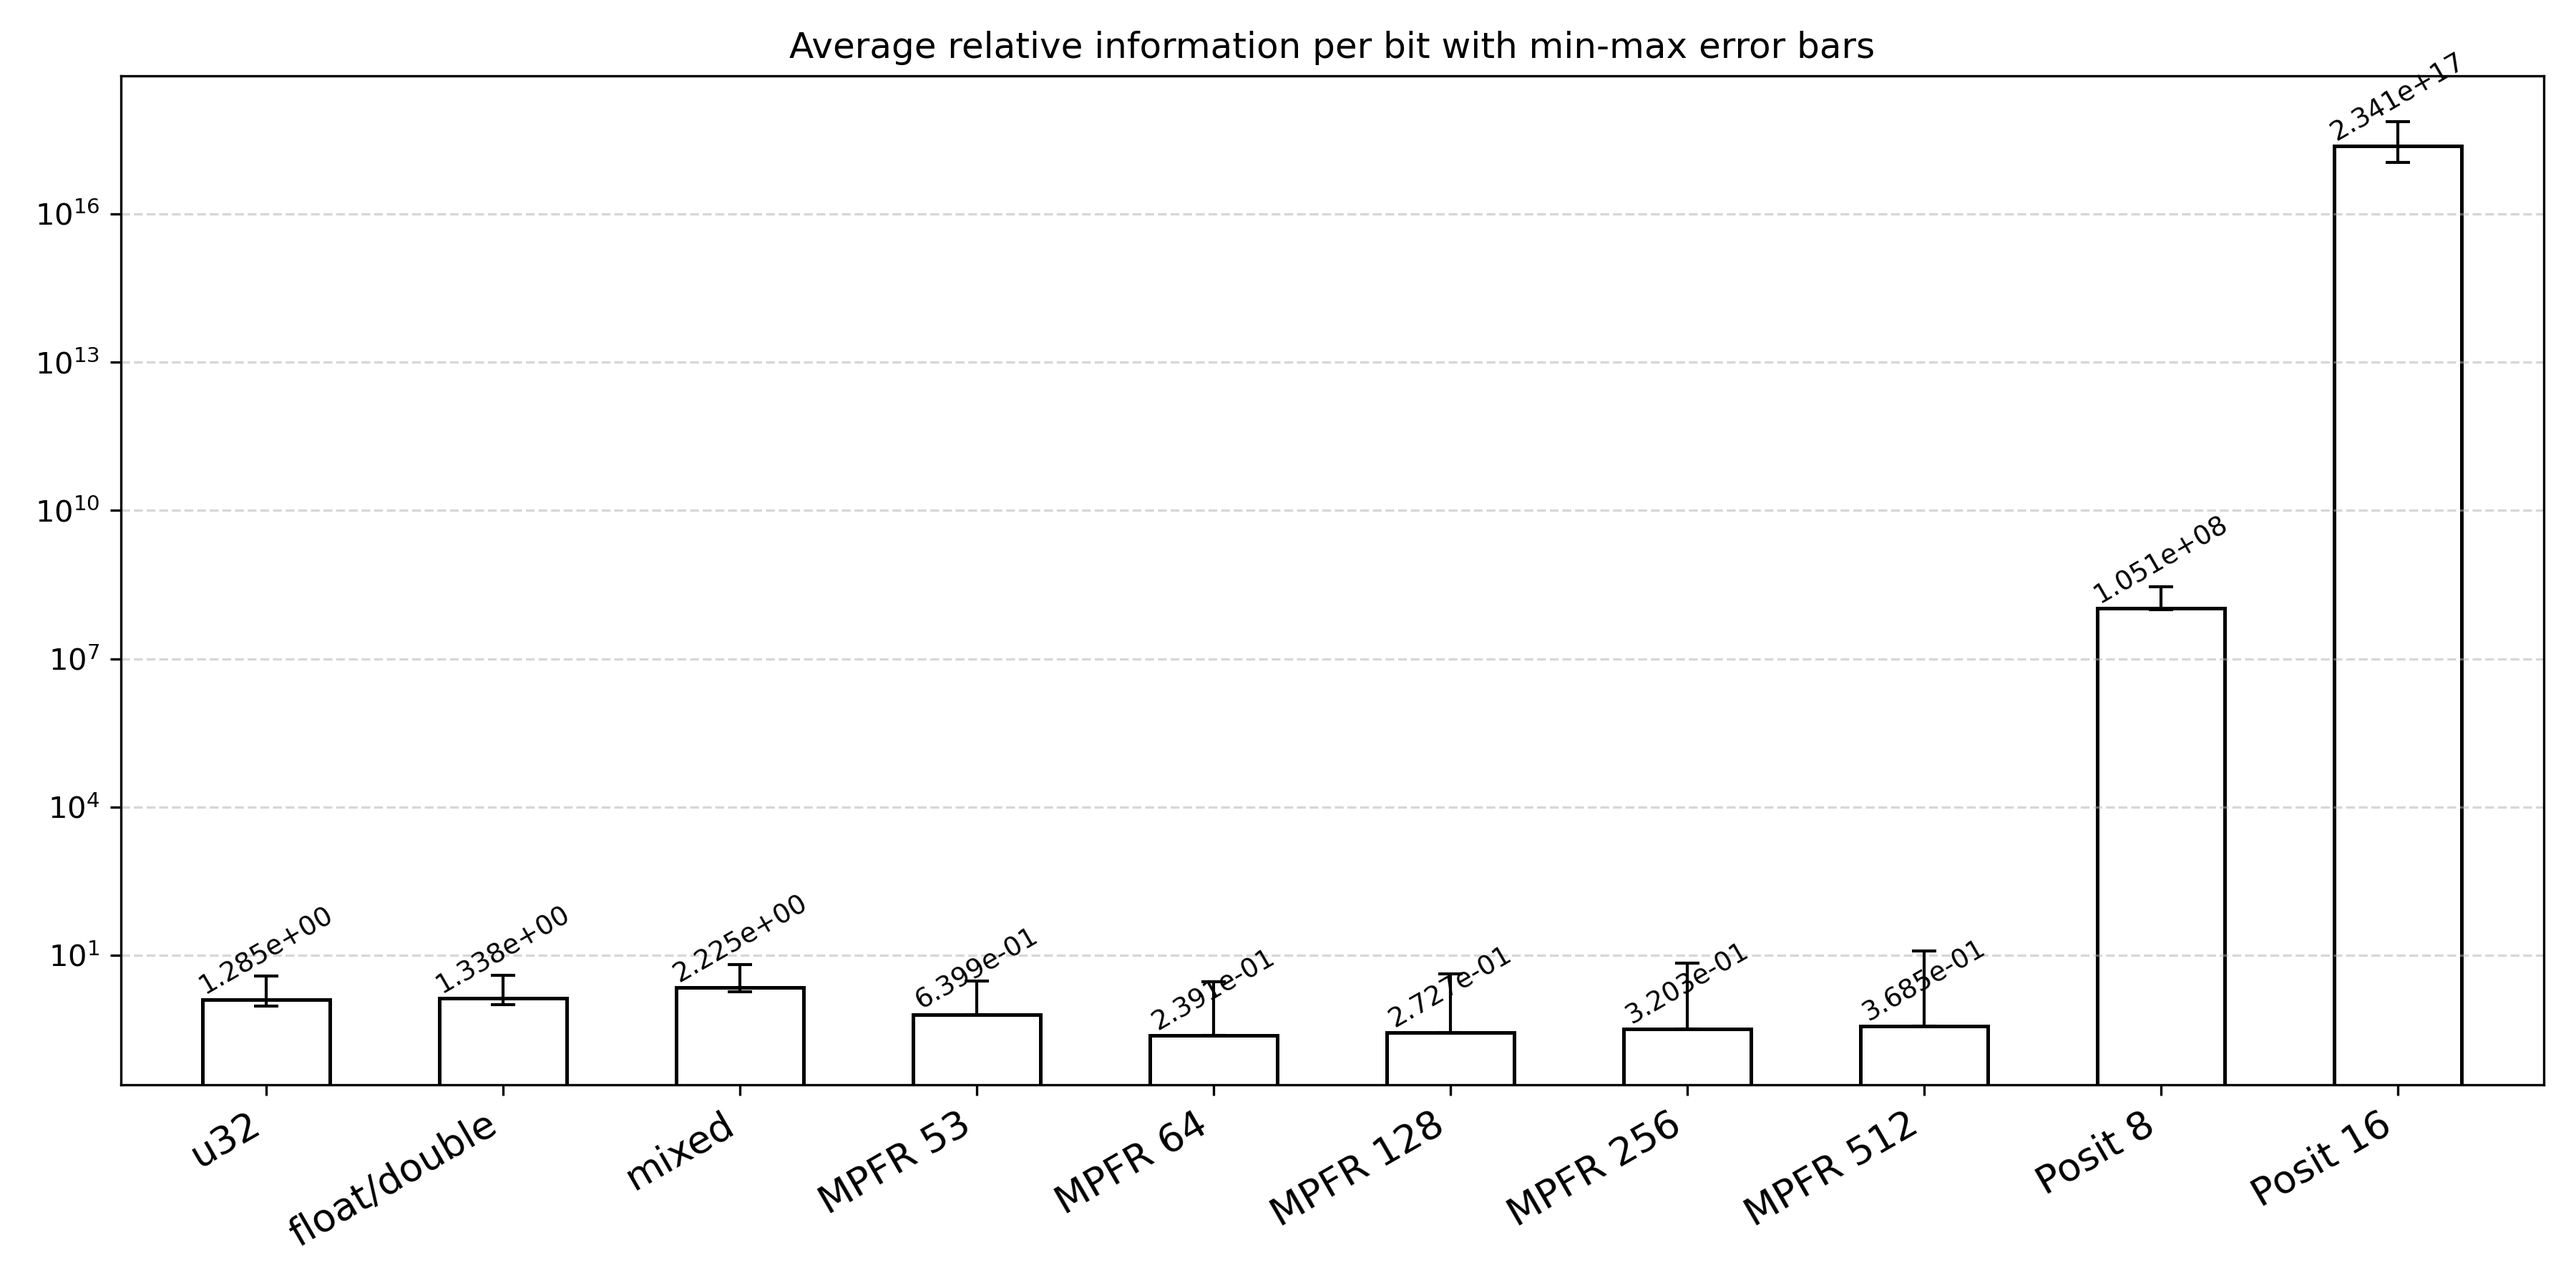
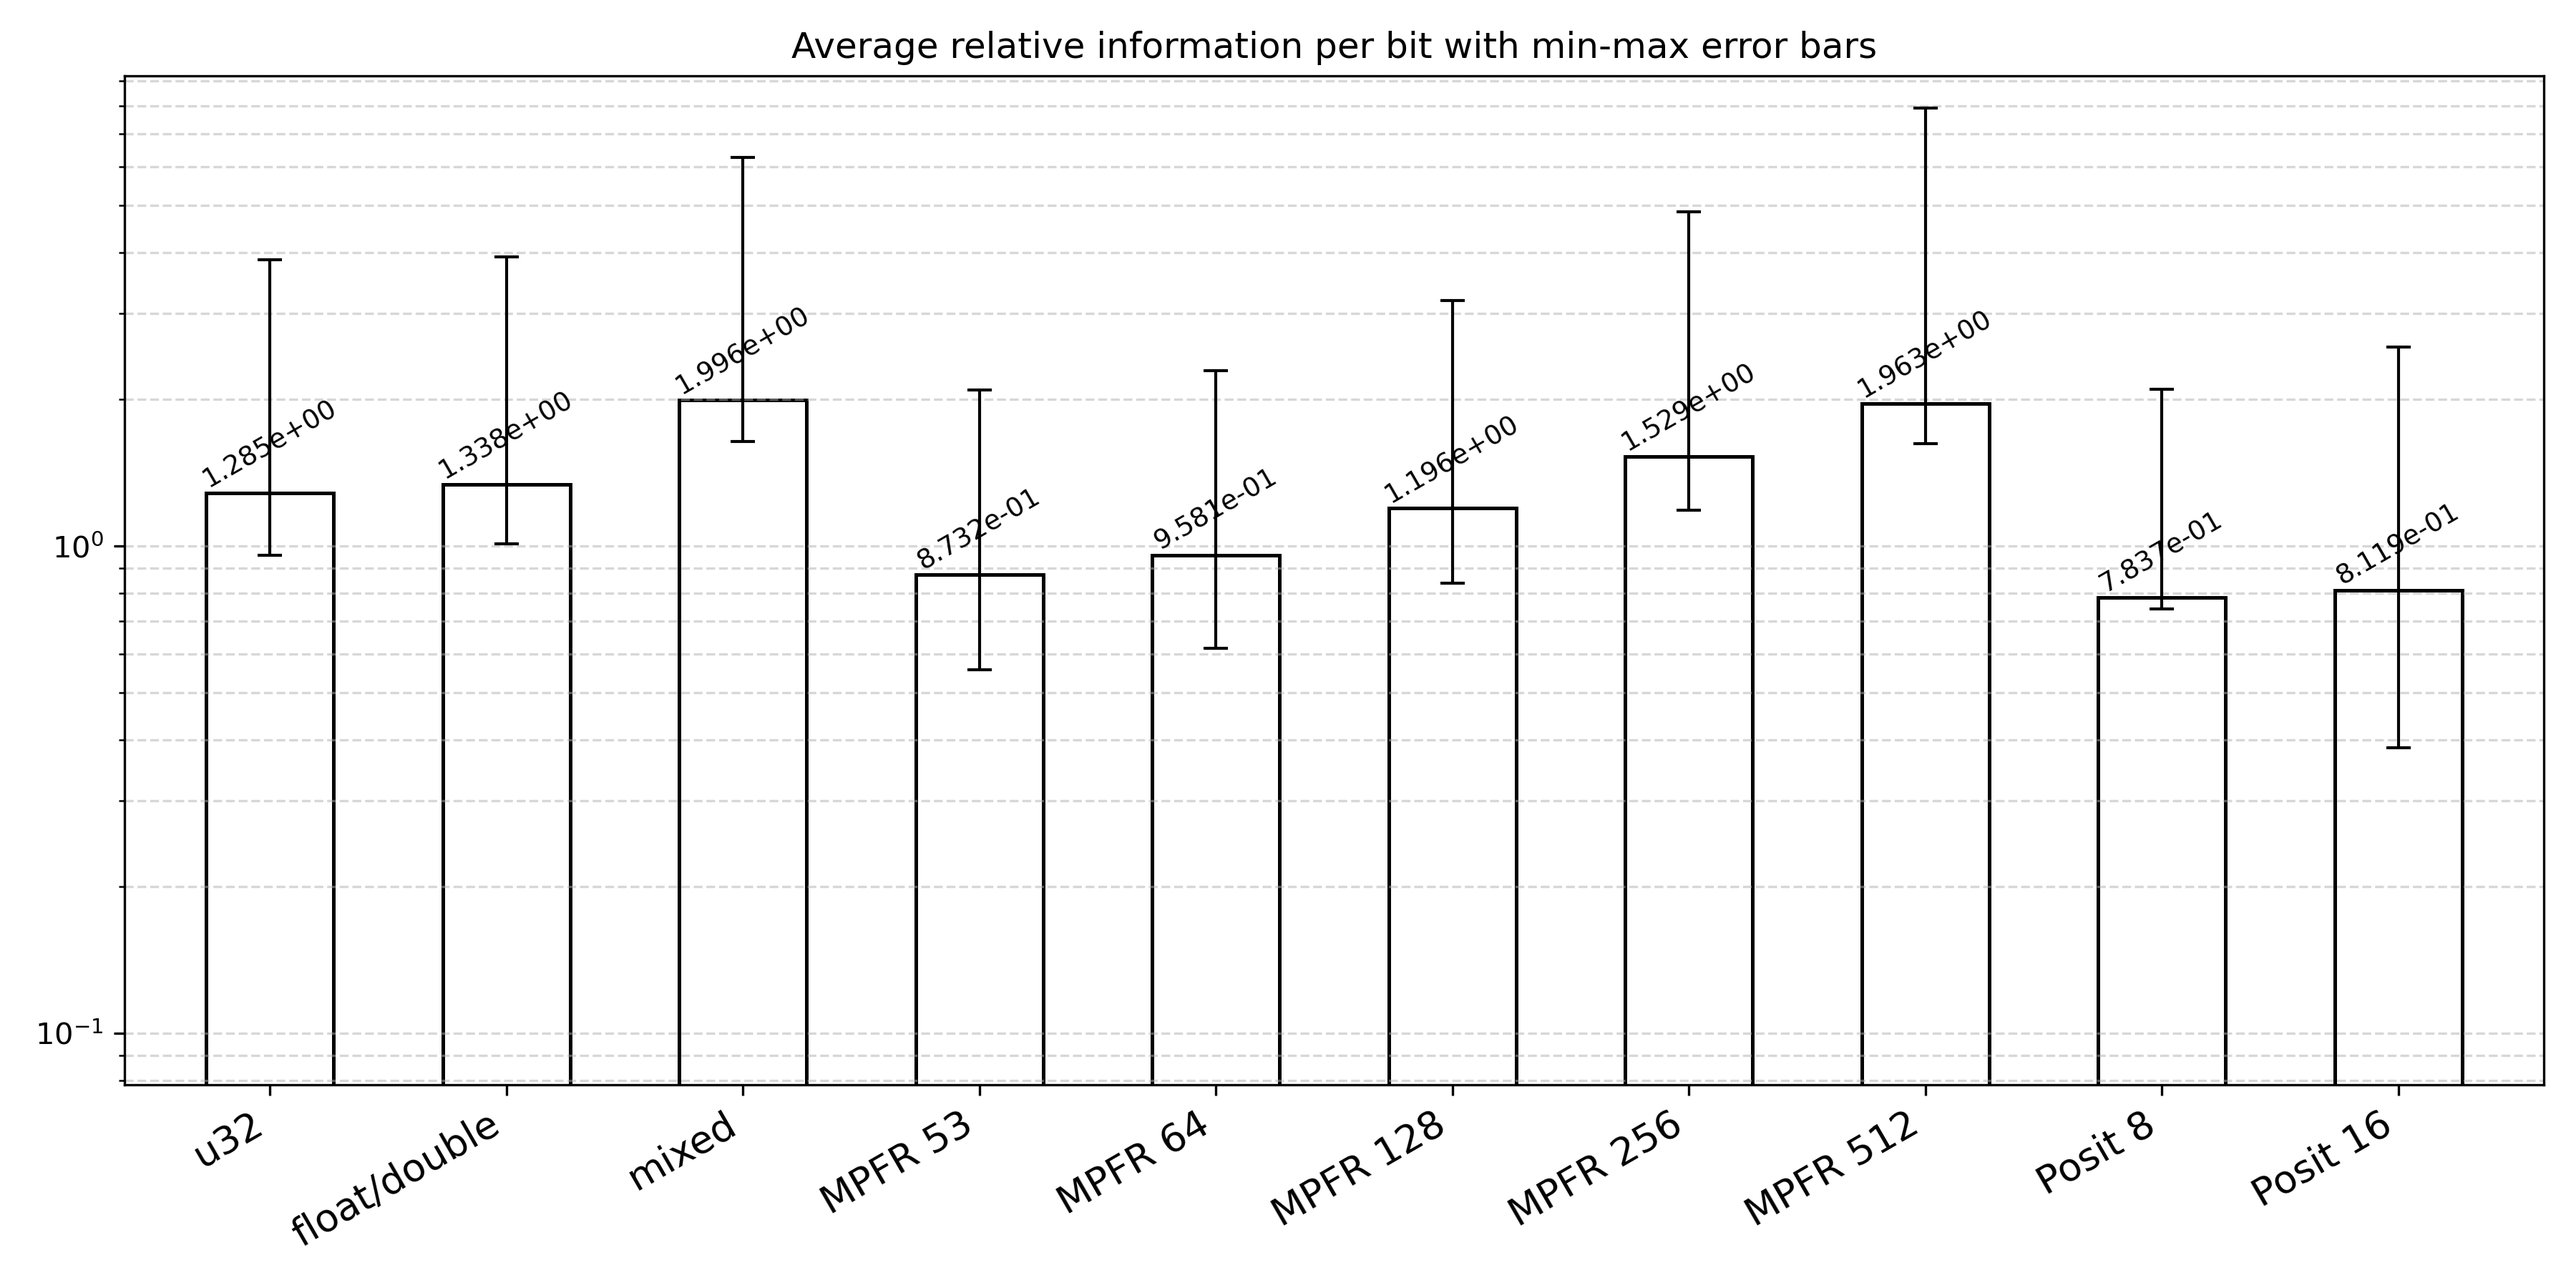
replot ipb ipb_rate

diff --git a/test/test_mpfr_convert.c b/test/test_mpfr_convert.c
@@ -128,7 +128,7 @@ int main(int argc, char **argv)
     for (int i = 0; i < total; i ++)
     {
         mpfr_d_div(temp1, factor_d, test_int[i].radius, MPFR_RNDN);
-        int n_bits = 1 + 64 + ((p[i] / 64) + !(p[i] % 64) * 1) * 64;
+        int n_bits = 1 + 64 + ((p[i] + 63) / 64) * 64;
         mpfr_d_div(temp2, 0.5, res_int[i].radius, MPFR_RNDN);
         mpfr_div_d(temp2, temp2, (double) n_bits, MPFR_RNDN);
         mpfr_div(temp3, temp2, temp1, MPFR_RNDN);
@@ -142,8 +142,8 @@ int main(int argc, char **argv)
         mpfr_min(min_rate, min_rate, temp3, MPFR_RNDN);
 
         mpfr_add(avg_ipb, avg_ipb, temp1, MPFR_RNDN);
-        mpfr_max(avg_ipb2, avg_ipb2, temp2, MPFR_RNDN);
-        mpfr_max(avg_rate, avg_rate, temp3, MPFR_RNDN);
+        mpfr_add(avg_ipb2, avg_ipb2, temp2, MPFR_RNDN);
+        mpfr_add(avg_rate, avg_rate, temp3, MPFR_RNDN);
 
         mpfr_clear(array[i]);
         mpfr_clear(test_int[i].center);

diff --git a/test/test_storage.c b/test/test_storage.c
@@ -9,7 +9,6 @@
 
 #define N 20000
 
-#define N_BITS 128
 
 int n_bits_u32(int precision)
 {
@@ -23,12 +22,12 @@ int n_bits_fd(int precision)
 
 int n_bits_mixed(int precision)
 {
-    return int_max(20, (precision / 8 + !(precision % 8) * 1) * 8 + 4);
+    return int_max(20, ((precision + 7 )/ 8) * 8 + 4);
 }
 
 double info_per_bit(double radius, int n_bits)
 {
-    return (double) 1 / (2 * radius * n_bits);
+    return 0.5 / (radius * n_bits);
 }
 
 int main(int argc, char ** argv)
@@ -108,7 +107,7 @@ int main(int argc, char ** argv)
         max_rate_fd = 0.0, mean_rate_fd = 0.0, min_rate_fd = INFINITY,
         max_rate_mixed = 0.0, mean_rate_mixed = 0.0, min_rate_mixed = INFINITY;
 
-    int n_bits_i = N_BITS;
+    int n_bits_i = 128;
 
     for (int i = 0; i < total; i ++)
     {

diff --git a/lib/posit_interval.h b/lib/posit_interval.h
@@ -6,8 +6,8 @@
 
 #include "softposit.h"
 
-#define CONST_IPB_8 set_pow2(-32)
-#define CONST_IPB_16 set_pow2(-64)
+#define CONST_IPB_8 1.0 / (2 * 2 * 8)
+#define CONST_IPB_16 1.0 / (2 * 2 * 16)
 
 #define MAXPOS8 0x7F
 #define MAXPOS16 0x7FFF
